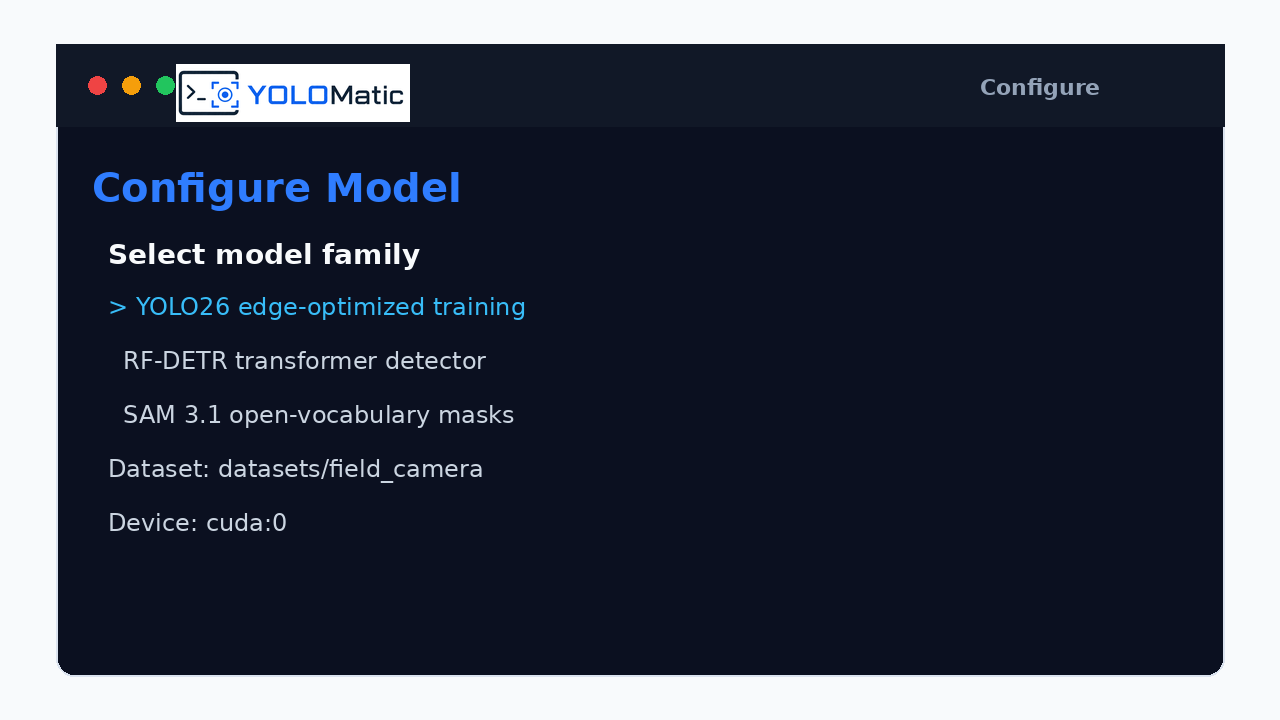
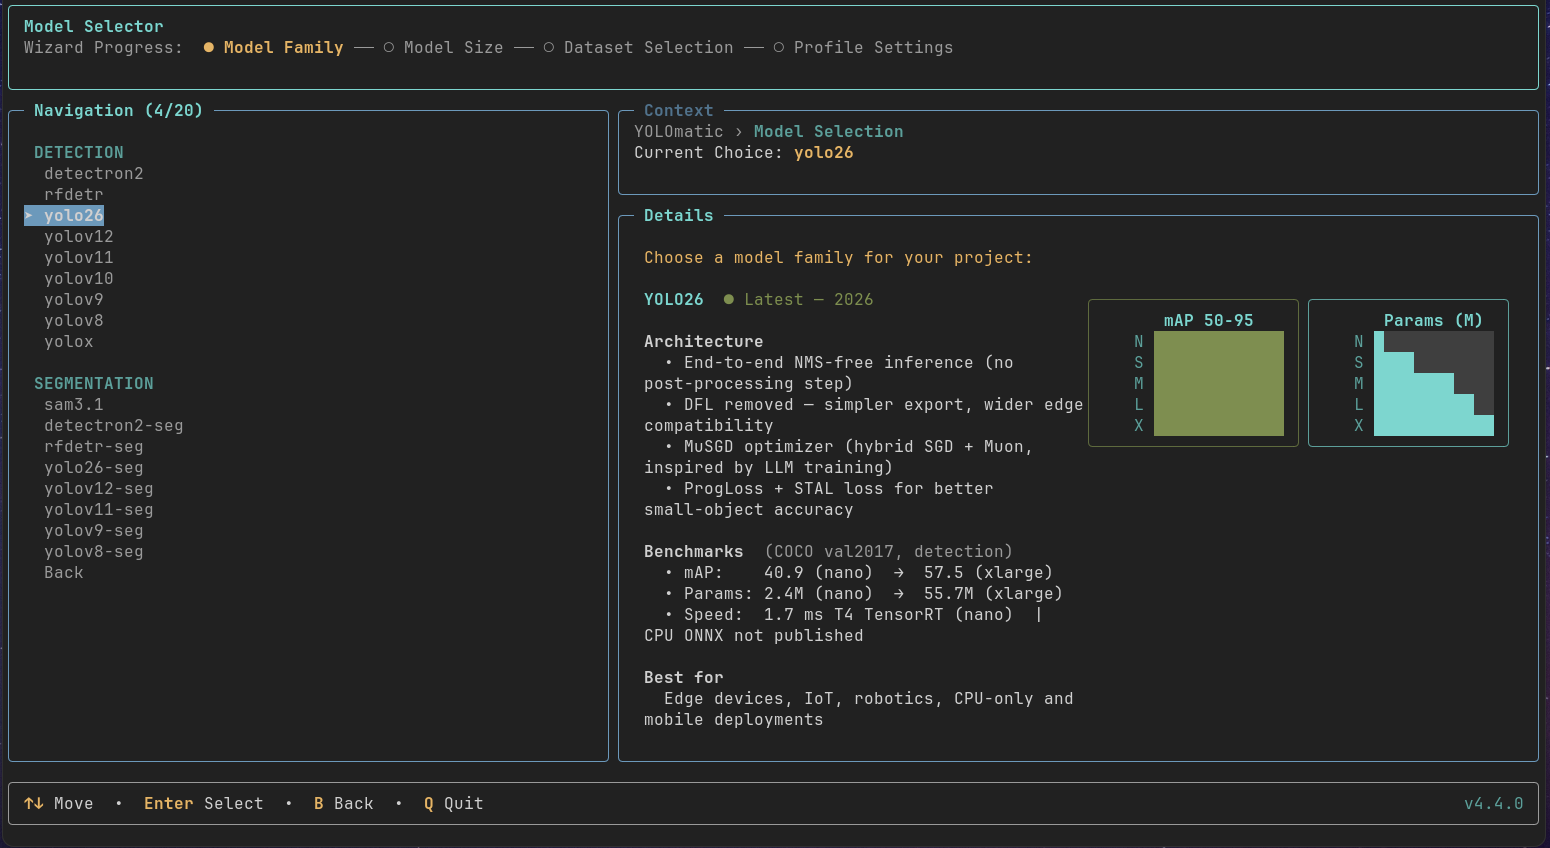
docs(readme): update screenshots and fix broken image link
- Remove references to outdated training and benchmark screenshots from the README.
- Delete the corresponding training-live.png and benchmark-results.png image files.
- Update wizard-configure-model.png and wizard-smart-split.png and correct the demo.gif path.

diff --git a/README.md b/README.md
@@ -14,7 +14,7 @@
 [![Docs](https://img.shields.io/badge/docs-GitHub%20Pages-teal?style=flat-square)](https://shahabahreini.github.io/YOLOMatic/)
 [![Discussions](https://img.shields.io/badge/discussions-open-orange?style=flat-square)](https://github.com/shahabahreini/YOLOMatic/discussions)
 
-![YOLOmatic terminal wizard](docs/assets/demo.gif)
+![YOLOmatic terminal wizard](docs/assets/demgo.gif)
 
 </div>
 
@@ -129,10 +129,6 @@ the upload TUI or optional post-training upload config.
 | Configure Model                                                               | Smart Split                                                           |
 | ----------------------------------------------------------------------------- | --------------------------------------------------------------------- |
 | ![Configure model wizard](docs/assets/screenshots/wizard-configure-model.png) | ![Smart split wizard](docs/assets/screenshots/wizard-smart-split.png) |
-
-| Training                                                         | Benchmark                                                          |
-| ---------------------------------------------------------------- | ------------------------------------------------------------------ |
-| ![Training live view](docs/assets/screenshots/training-live.png) | ![Benchmark report](docs/assets/screenshots/benchmark-results.png) |
 
 ## Links
 